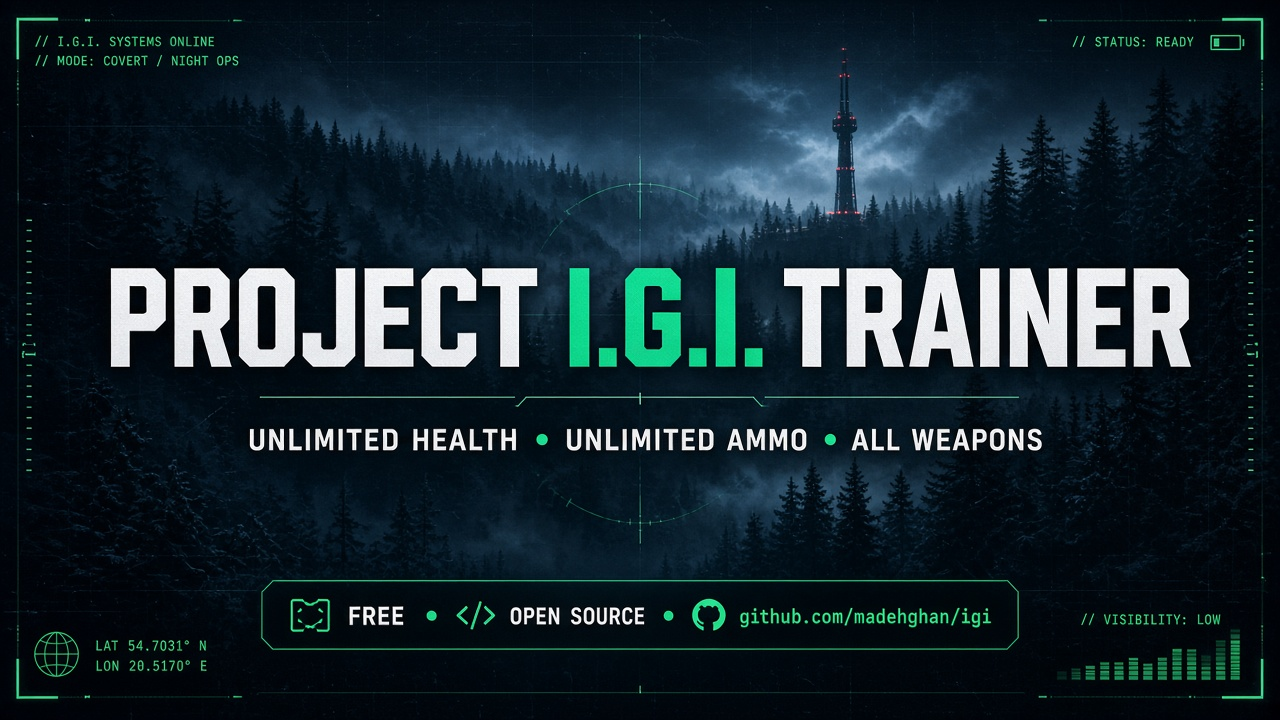
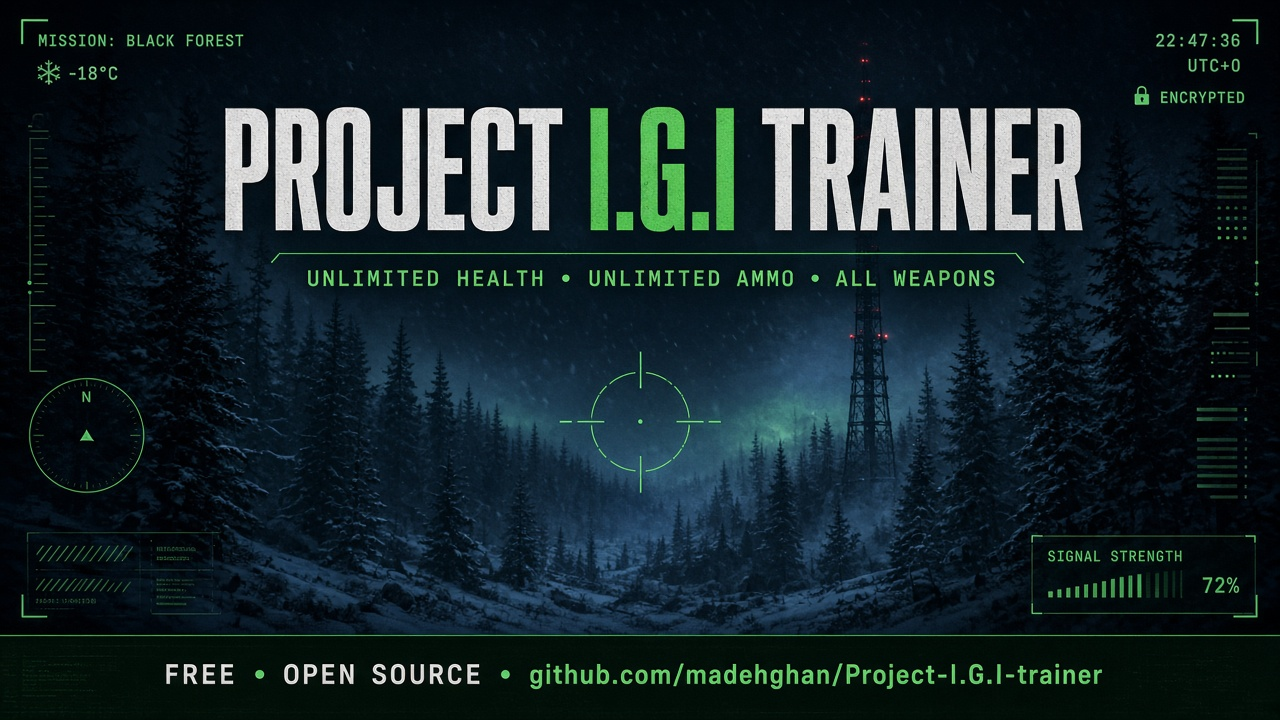
Point all links to github.com/madehghan/Project-I.G.I-trainer

diff --git a/IgiTrainer.cs b/IgiTrainer.cs
@@ -1,5 +1,5 @@
 // Project I.G.I Trainer — free for everyone
-// GitHub: https://github.com/madehghan/igi
+// GitHub: https://github.com/madehghan/Project-I.G.I-trainer
 // Features: unlimited health, unlimited ammo, give all weapons
 // EN / FA bilingual UI
 
@@ -23,7 +23,7 @@ static class Native {
 }
 
 sealed class MainForm : Form {
-  public const string RepoUrl = "https://github.com/madehghan/igi";
+  public const string RepoUrl = "https://github.com/madehghan/Project-I.G.I-trainer";
   const uint PtrBase = 0x0056E210;
   // Official IGI-Internal flags (soft memory, no code patch):
   const uint AddrUnlimAmmo = 0x0056E214;   // WEAPON::UNLIMITED_AMMO_SET
@@ -97,7 +97,7 @@ sealed class MainForm : Form {
       "IgiTrainer.log");
     try { File.WriteAllText(logPath, ""); } catch {}
 
-    Text = "Project I.G.I Trainer | madehghan/igi";
+    Text = "Project I.G.I Trainer | madehghan/Project-I.G.I-trainer";
     FormBorderStyle = FormBorderStyle.FixedSingle;
     MaximizeBox = false;
     MinimizeBox = true;

diff --git a/README.md b/README.md
@@ -3,8 +3,8 @@
 </p>
 
 <p align="center">
-  <a href="https://github.com/madehghan/igi/releases/latest"><img src="https://img.shields.io/github/v/release/madehghan/igi?style=for-the-badge&label=Download&color=2ea44f" alt="Download"></a>
-  <a href="https://github.com/madehghan/igi/stargazers"><img src="https://img.shields.io/github/stars/madehghan/igi?style=for-the-badge&color=e3b341" alt="Stars"></a>
+  <a href="https://github.com/madehghan/Project-I.G.I-trainer/releases/latest"><img src="https://img.shields.io/github/v/release/madehghan/Project-I.G.I-trainer?style=for-the-badge&label=Download&color=2ea44f" alt="Download"></a>
+  <a href="https://github.com/madehghan/Project-I.G.I-trainer/stargazers"><img src="https://img.shields.io/github/stars/madehghan/Project-I.G.I-trainer?style=for-the-badge&color=e3b341" alt="Stars"></a>
   <a href="LICENSE"><img src="https://img.shields.io/badge/license-MIT-blue?style=for-the-badge" alt="MIT"></a>
   <img src="https://img.shields.io/badge/platform-Windows-0078D6?style=for-the-badge&logo=windows&logoColor=white" alt="Windows">
   <img src="https://img.shields.io/badge/language-EN%20%7C%20FA-informational?style=for-the-badge" alt="EN FA">
@@ -15,7 +15,7 @@
 <p align="center">
   <b>Unlimited Health · Unlimited Ammo · All Weapons</b><br>
   جان نامحدود · تیر نامحدود · همه سلاحها<br>
-  <a href="https://github.com/madehghan/igi">github.com/madehghan/igi</a>
+  <a href="https://github.com/madehghan/Project-I.G.I-trainer">github.com/madehghan/Project-I.G.I-trainer</a>
 </p>
 
 Free open-source **single-player trainer** for classic **Project I.G.I (I'm Going In)** / **پروژه آیجیآی**.  
@@ -29,7 +29,7 @@ One click. No complicated install. Enjoy.
 
 | Step | English | فارسی |
 |------|---------|--------|
-| 1 | [Download latest release](https://github.com/madehghan/igi/releases/latest) (`IgiTrainer.exe`) | آخرین نسخه را دانلود کنید |
+| 1 | [Download latest release](https://github.com/madehghan/Project-I.G.I-trainer/releases/latest) (`IgiTrainer.exe`) | آخرین نسخه را دانلود کنید |
 | 2 | Put `IgiTrainer.exe` **next to** `IGI.exe` | فایل را **کنار** `IGI.exe` بگذارید |
 | 3 | Run it → click **Play** | اجرا → دکمه **Play** |
 | 4 | Enter a mission — done | وارد مرحله شوید — تموم |
@@ -37,7 +37,7 @@ One click. No complicated install. Enjoy.
 Or clone:
 
 ```bash
-git clone https://github.com/madehghan/igi.git
+git clone https://github.com/madehghan/Project-I.G.I-trainer.git
 cd igi
 RUN.bat
 ```
@@ -106,11 +106,11 @@ If this helped you, **star the repo** — it helps others find it in GitHub sear
 اگر براتون مفید بود **ستاره** بزنید تا در سرچ گیتهاب بیشتر دیده شود.
 
 <p align="center">
-  <a href="https://github.com/madehghan/igi/stargazers">⭐ Star madehghan/igi</a>
+  <a href="https://github.com/madehghan/Project-I.G.I-trainer/stargazers">⭐ Star madehghan/Project-I.G.I-trainer</a>
   ·
-  <a href="https://github.com/madehghan/igi/releases/latest">⬇ Download</a>
+  <a href="https://github.com/madehghan/Project-I.G.I-trainer/releases/latest">⬇ Download</a>
   ·
-  <a href="https://github.com/madehghan/igi/issues">Issues</a>
+  <a href="https://github.com/madehghan/Project-I.G.I-trainer/issues">Issues</a>
 </p>
 
 ---
@@ -120,4 +120,4 @@ If this helped you, **star the repo** — it helps others find it in GitHub sear
 You must own a legitimate copy of the game. This repository does **not** include game binaries. Use at your own risk.  
 باید نسخه قانونی بازی را داشته باشید. فایلهای اصلی بازی داخل این ریپو نیست.
 
-**MIT License** · Free forever · https://github.com/madehghan/igi
+**MIT License** · Free forever · https://github.com/madehghan/Project-I.G.I-trainer
